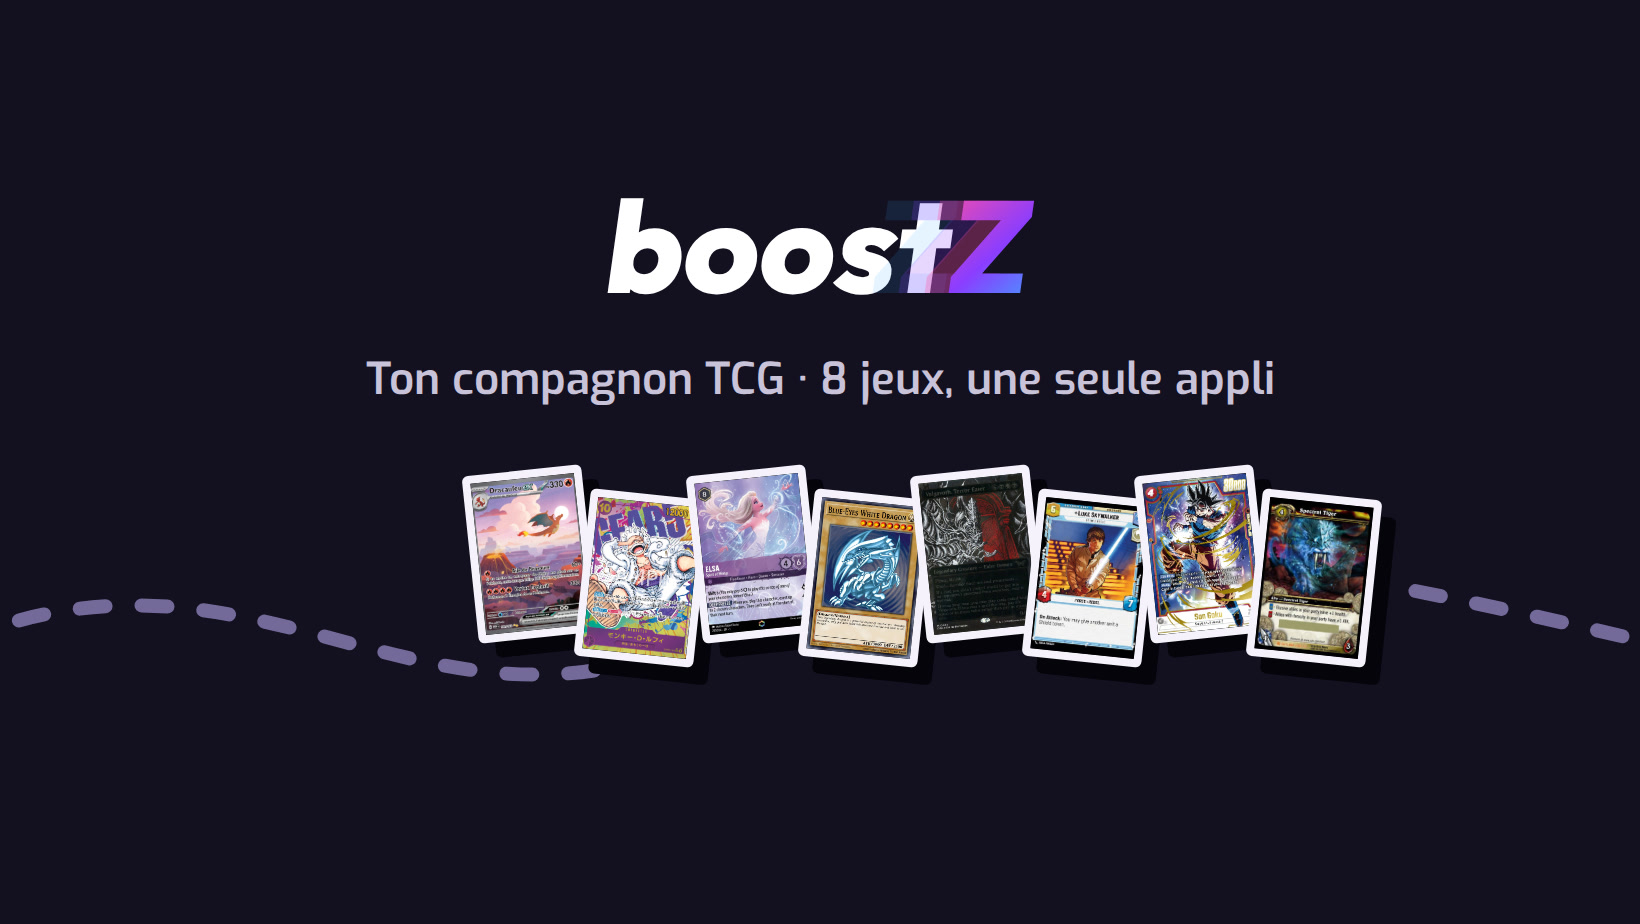
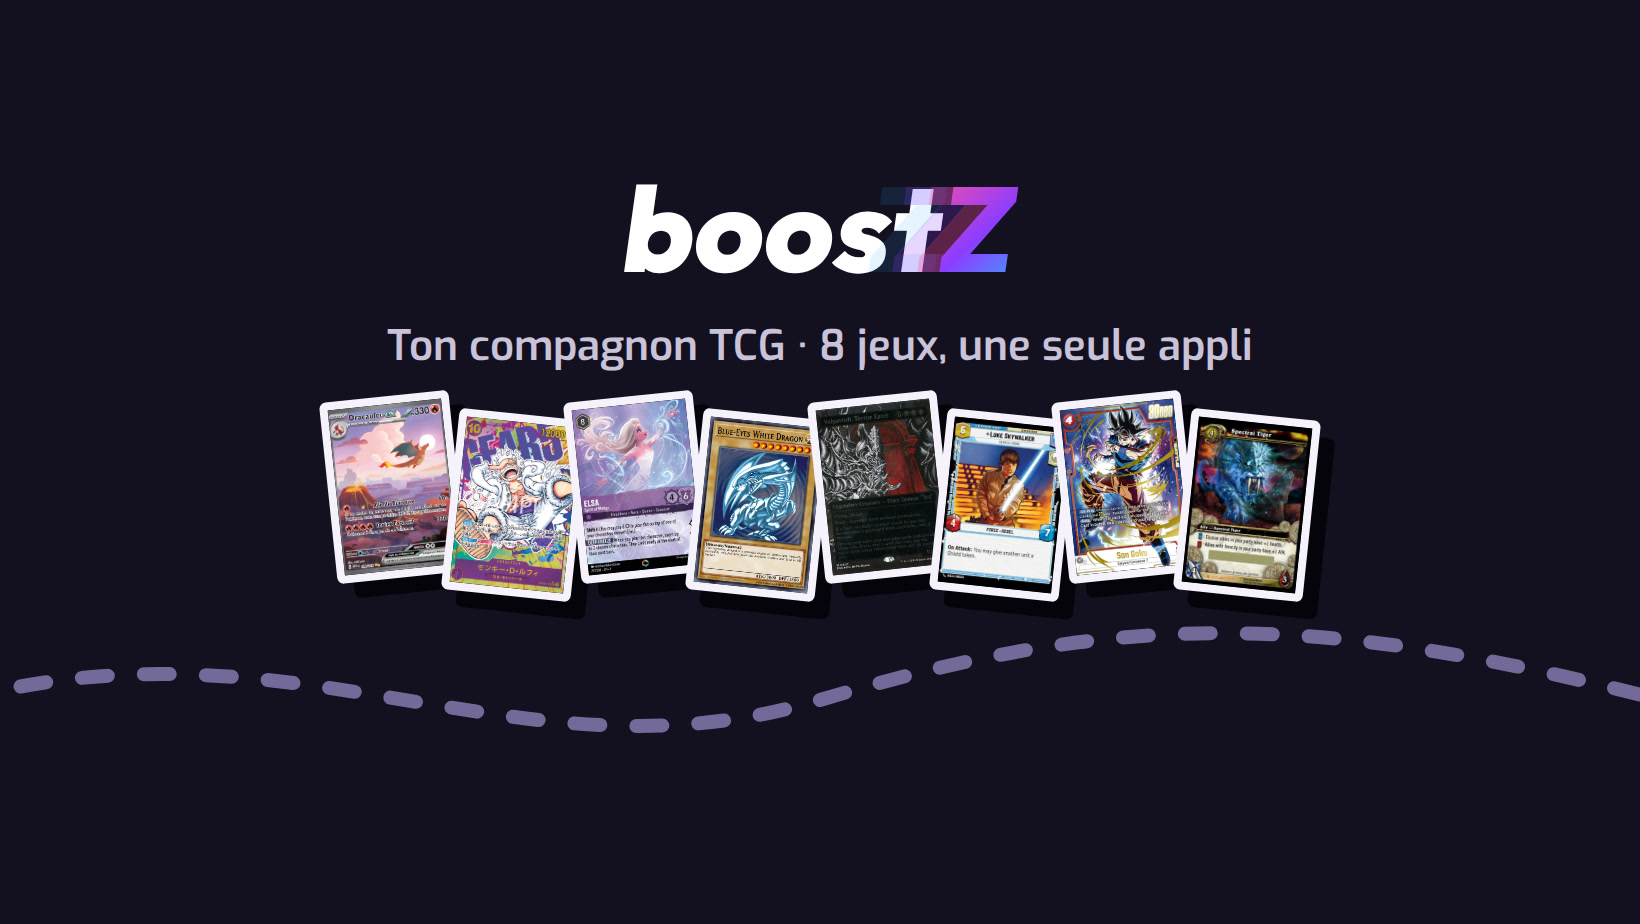
Lift the Facebook cover above the phone's profile picture
On a phone Facebook puts the round profile picture over the bottom
centre of the cover, where it hid half of the card row. The wordmark,
the line and the cards now end above y 620; only the dashed path runs
behind the picture.

Claude-Session: https://claude.ai/code/session_01KYjmNhJZrtvo4jRtggkgV3

diff --git a/gabarits/couverture-facebook.html b/gabarits/couverture-facebook.html
@@ -84,10 +84,12 @@ S.push(['09-clair', `${bg('linear-gradient(180deg,#FFFFFF,#F6F4FA)')}
 
 // 10 - The dashed path of the posts linking a row of cards, wordmark above.
 const row = ['pokemon', 'onepiece', 'lorcana', 'yugioh', 'magic', 'starwarsunlimited', 'dragonball', 'wow'];
-S.push(['10-chemin', `<svg class="abs" width="${W}" height="${H}" style="left:0;top:0"><path d="M -40 640 C 260 520, 420 760, 700 640 S 1140 520, 1680 650" fill="none" stroke="rgba(196,181,253,.55)" stroke-width="14" stroke-dasharray="26 36" stroke-linecap="round"/></svg>
-  <div class="abs" style="left:0;top:180px;width:${W}px;display:flex;justify-content:center">${wordmark(130)}</div>
-  ${text(0, 350, W, LINE + ' · 8 jeux, une seule appli', 44, 'text-align:center;font-weight:600;color:#C9C3D9')}
-  ${row.map((g, i) => card(`assets/${CARDS[g]}`, 470 + i * 112, 470 + (i % 2) * 24, 120, (i % 2 ? 6 : -6), 3 + i)).join('')}`]);
+S.push(['10-chemin', `<svg class="abs" width="${W}" height="${H}" style="left:0;top:0"><path d="M -40 700 C 300 610, 520 790, 820 700 S 1320 610, 1680 705" fill="none" stroke="rgba(196,181,253,.55)" stroke-width="14" stroke-dasharray="26 36" stroke-linecap="round"/></svg>
+  <div class="abs" style="left:0;top:168px;width:${W}px;display:flex;justify-content:center">${wordmark(120)}</div>
+  ${text(0, 318, W, LINE + ' · 8 jeux, une seule appli', 42, 'text-align:center;font-weight:600;color:#C9C3D9')}
+  ${row.map((g, i) => card(`assets/${CARDS[g]}`, 328 + i * 122, 396 + (i % 2) * 18, 130, (i % 2 ? 6 : -6), 3 + i)).join('')}`]);
+// Phones put the profile picture over the bottom centre (from y 620 down,
+// seen on 16/10/2026), computers crop below y 774: only the path goes there.
 
 // 11 - Big statement: "8 TCG. 1 appli." with the emblems as stickers.
 S.push(['11-8tcg', `${bg(`radial-gradient(circle at 70% 40%, #2A1B4A, #131020 60%)`)}
